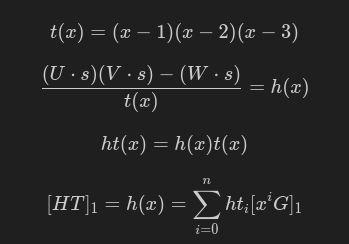
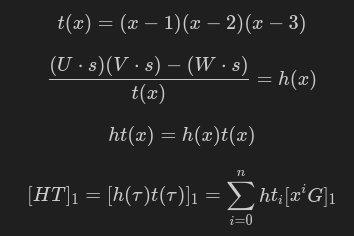
fix latex

diff --git a/README.md b/README.md
@@ -205,7 +205,7 @@ There exists a [Ring](https://en.wikipedia.org/wiki/Ring_(mathematics)) Homomorp
  $$
 
 
-The ring homomorphism here means that the is an information/structure preserving transformation from vectors to polynomials. Vector addition and multiplication is preserved with the interpolation in the form of polynomial addition and multiplication.
+The ring homomorphism here means that there is an information/structure preserving transformation from vectors to polynomials. Vector addition and multiplication is preserved within the interpolation in the form of polynomial addition and multiplication.
 
 ### R1CS to QAP Transformation Function
 
@@ -275,7 +275,7 @@ $$
 s = a = (a_1, ... , a_n), a_1 = 1, a{}_{i, i>1} \in \mathbb{F_p} 
 $$
 
-Note that the interpolation of each row of the column vector maps to the dimension of that row - 1. And all arithmatic operations are done in the finite field $\mathbb{F_p}$.
+Note that the interpolation of each row of the column vector maps to the dimension of that row - 1. And all arithmetic operations are done in the finite field $\mathbb{F_p}$.
 
 The following equations are all congruent to our original program:
 
@@ -299,9 +299,9 @@ The QAP representaiton is what enables us to achieve succinctly verifiable proof
 
 ### Balancing the QAP
 
-There is a catch to the above description of QAPs. Because we are multiplying $U \cdot s$ and $V \cdot s$, the degree of the resulting polynomial will not match that of $W \cdot s$. The integrity of the interpolation wrt to the R1CS will still hold, but something must be done to maintain the equality of the polynomial equation.
+There is a catch to the above description of QAPs. Because we are multiplying $U \cdot s$ and $V \cdot s$, the degree of the resulting polynomial will not match that of $W \cdot s$. The integrity of the interpolation wrt to the R1CS will still hold, but something must be done to maintain the equality of the polynomial equation. They must be the same polynomial.
 
-To illustrate this, consider the following setup for $U, V$
+To illustrate this, consider the following setup for $U, V, W, s$
 
 $$
 (W \cdot s) = x^2 + 3x + 1
@@ -321,7 +321,7 @@ $$
 
 In this situation, $W \cdot s$ will only be a degree of 2, breaking the equality on the polynomial side of things. We need to introduce another term into the right hand side of the equation to return the equality.
 
-First, lets consider our R1CS again. We wish to add a term without changing this representation. If we add the zero vector, the equation will still hold:
+First, lets consider our R1CS again. We wish to add a term without changing this representation. If we add the zero vector, the R1CS equation will still hold:
 
 $$ 
 Ls \circ Rs = Os + 0  
@@ -329,7 +329,7 @@ $$
 
 The $0$ term is known as a balancing term. If we interpolate the zero vector, nothing changes on the R1CS side. However because we can interpolate the polynomial in an infinite number of ways, we can make this polynomial match the degree of the other side of the equation.
 
-In our example, because we are interpolating the polynomials over x = {1, 2, 3}, we can construct a polynomial $h(x)t(x)$ where:
+In our example, because we are interpolating the polynomials over x = {1, 2, 3}, we can construct a polynomial $h(x)t(x)$ with roots $1,2,3$ by defining $t(x)$ as follows:
 
 $$
 t(x) = (x - 1)(x - 2)(x - 3)
@@ -351,7 +351,7 @@ $$
 
 It should be noted that $t(x)$ is a public polynomial. This means that in a ZKP, the prover cannot just make up some $h(x)$ term that will make the equation hold. The prover must derive $h(x)$ else the verifier will not be able to verify the proof. 
 
-Our new QAP definition is now as follows:
+Our refined QAP definition is now as follows:
 
 $$ 
 \sum_{i=0}^m a_iu_i(x) \sum_{i=0}^m a_iv_i(x) = \sum_{i=0}^m a_iw_i(x) + h(x)t(x)
@@ -359,7 +359,7 @@ $$
 
 # A Preliminary to Groth16
 
-The following description lays out the steps for a zero knowledge proof for the QAP. This is a half baked version of Groth16 that will be expanded on to improve upon its weaknesses. 
+The following description lays out the steps for a zero knowledge proof for the QAP. This is a half baked version of Groth16 that will be expanded upon to erase its weaknesses. 
 
 ### Trusted Setup
 
@@ -375,13 +375,13 @@ $$
 [\tau G_2], [\tau ^2G_2], [\tau ^3G_2],...[\tau ^nG_2]
 $$
 
-The will be used in an encrypted evaluation of the QAP.
+These are precomputed by the trusted setup for use in the encrypted evaluation of the QAP.
 
 ### Prover Steps
 
 The prover computes encrypted dot products $(U \cdot s)$, $(V \cdot s)$, $(W \cdot s)$, $h(x)$ with scalar multiplication of the encrypted powers of $\tau$ with the QAP matrix and witness polynomial coefficients. 
 
-Also note that in the below equations, brackets with a subscript, such as $[a]_c$ denote that the term within is a $G_c$ curve point.
+Note that in the below equations, brackets with a subscript, such as $[a]_c$ denote that the term within is a $G_c$ curve point.
 
 The encrypted evaluation of $(U \cdot s)(\tau)$ and $(V \cdot s)(\tau)$ results in curve points $[A]_1$ and $[B]_2$ respectively.
 
@@ -421,8 +421,8 @@ Next we must compute $h(x)t(x)$. Note that this is not an evaluation but an actu
 
 
 
-<!-- 
-$$
+
+<!-- $$
 t(x) = (x - 1)(x - 2)(x - 3)
 $$
 
@@ -435,7 +435,7 @@ ht(x) = h(x)t(x)
 $$
 
 $$
-[HT]_1 = h(x) = \sum_{i=0}^n ht_i[x^iG]_1
+[HT]_1 = [h(\tau)t(\tau)]_1 = \sum_{i=0}^n ht_i[x^iG]_1
 $$ -->
 
 
@@ -552,16 +552,17 @@ Note that although not explicitly stated, the powers of tau from the trusted set
   <img src="imgs/prover_steps.png" alt="Description of image">
 </p>
 
-<!-- $$
-[A]_1=  [\alpha]_1 + \sum_{i=0}^n a_i[u_i(\tau ^i)]_1 + r[\delta]_1
+<!-- 
+$$
+[A]_1=  [\alpha]_1 + \sum_{i=0}^n a_i[u_i(\tau)]_1 + r[\delta]_1
 $$
 
 $$
-[B]_2= [\beta]_2 + \sum_{i=0}^n a_i[v_i(\tau ^i)]_2 + s[\delta]_2
+[B]_2= [\beta]_2 + \sum_{i=0}^n a_i[v_i(\tau)]_2 + s[\delta]_2
 $$
 
 $$
-[B]_1= [\beta]_1 + \sum_{i=0}^n a_i [v_i(\tau^i)]_1 + s[\delta]_1
+[B]_1= [\beta]_1 + \sum_{i=0}^n a_i [v_i(\tau)]_1 + s[\delta]_1
 $$
 
 $$
@@ -570,17 +571,18 @@ $$
 
 $$
 proof = ([A]_1, [B]_2, [C]_1)
-$$ -->
-
+$$ 
+-->
 
 ## Verifier Steps 
 
-The verifier verifies the following equality holds. If it does, the proof is valid. Otherwise not.
+The verifier verifies the following equality holds. If it does, the proof is valid. Otherwise not. 
 
 <p align="center">
   <img src="imgs/verifier_steps.png" alt="Description of image">
 </p>
 
+Note that the public claim in the first term is evaluated by the prover in an encrypted manner, the combined with the rest of the encrypted witness.
 
 <!-- 
 $$
